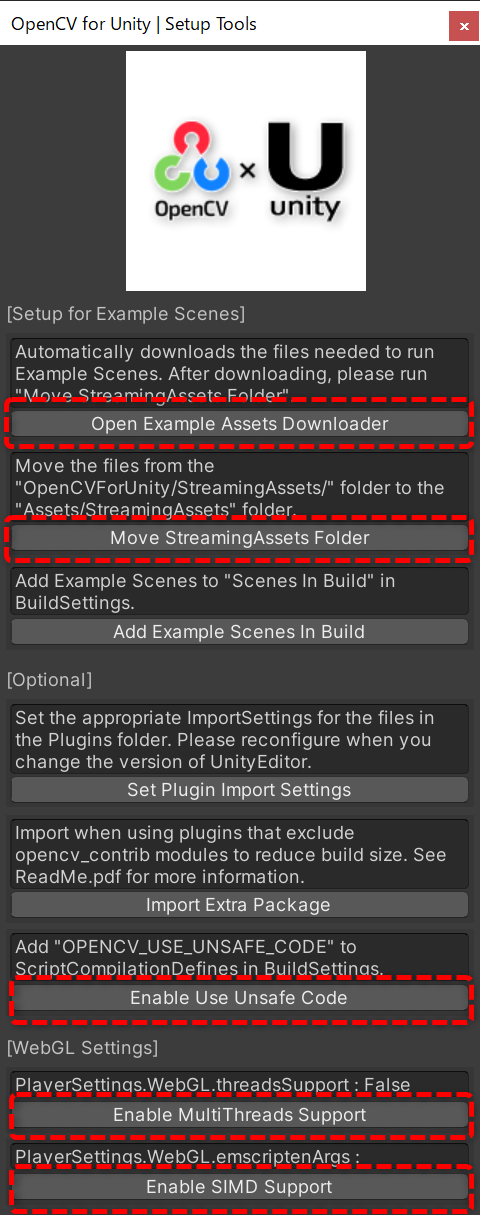
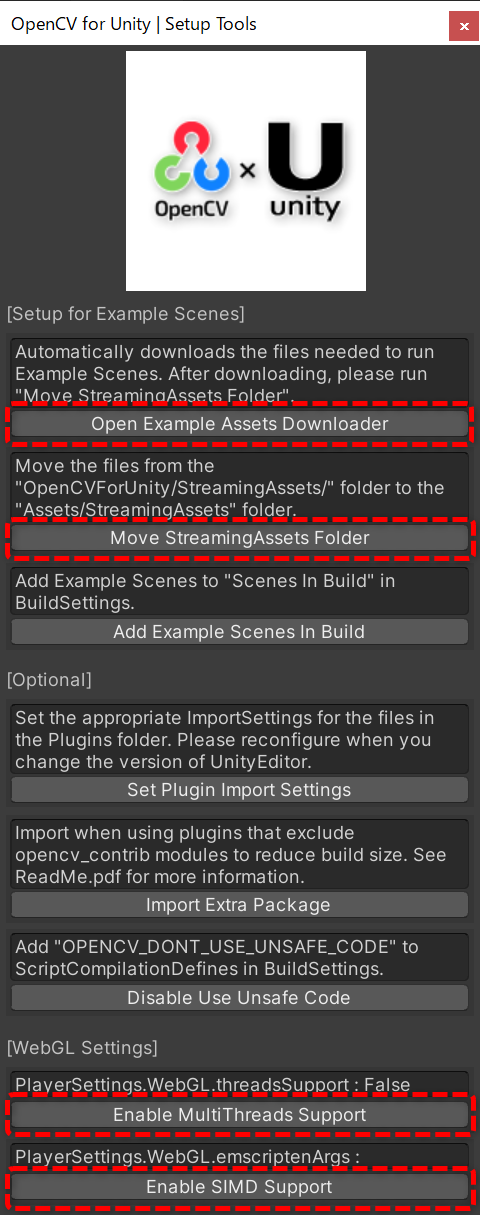
update 1.0.4

diff --git a/Assets/VideoPlayerWithOpenCVForUnityExample/HandPoseEstimationMediaPipeExample/HandPoseEstimationMediaPipeExample.cs b/Assets/VideoPlayerWithOpenCVForUnityExample/HandPoseEstimationMediaPipeExample/HandPoseEstimationMediaPipeExample.cs
@@ -252,7 +252,9 @@ namespace VideoPlayerWithOpenCVForUnityExample
                                 hands.Add(handpose);
                         }
                         //palmDetector.visualize(img, palms, true, false);
-                        handPoseEstimator.visualize(img, hands, true, false);
+
+                        foreach (var hand in hands)
+                            handPoseEstimator.visualize(img, hand, true, false);
                     }
 
                     gameObject.transform.localScale = new Vector3(img.width(), img.height(), 1);
@@ -418,7 +420,9 @@ namespace VideoPlayerWithOpenCVForUnityExample
                     Imgproc.cvtColor(bgrMat, rgbaMat, Imgproc.COLOR_BGR2RGBA);
 
                     //palmDetector.visualize(rgbaMat, palms, false, true);
-                    handPoseEstimator.visualize(rgbaMat, hands, false, true);
+
+                    foreach (var hand in hands)
+                        handPoseEstimator.visualize(rgbaMat, hand, false, true);
                 }
 
                 Utils.matToTexture2D(rgbaMat, texture);

diff --git a/Assets/VideoPlayerWithOpenCVForUnityExample/ShowSystemInfo.cs b/Assets/VideoPlayerWithOpenCVForUnityExample/ShowSystemInfo.cs
@@ -1,4 +1,4 @@
-using OpenCVForUnity.CoreModule;
+using OpenCVForUnity.CoreModule;
 using OpenCVForUnity.UnityUtils;
 using System;
 using System.Collections.Generic;
@@ -81,8 +81,6 @@ namespace VideoPlayerWithOpenCVForUnityExample
             dict.Add("Build target", "WSA");
 #elif UNITY_WEBGL
             dict.Add("Build target", "WebGL");
-#elif PLATFORM_LUMIN
-            dict.Add("Build target", "LUMIN");
 #else
             dict.Add("Build target", "");
 #endif
@@ -97,7 +95,7 @@ namespace VideoPlayerWithOpenCVForUnityExample
             dict.Add("Scripting backend", "");
 #endif
 
-#if OPENCV_USE_UNSAFE_CODE
+#if !OPENCV_DONT_USE_UNSAFE_CODE
             dict.Add("Allow 'unsafe' Code", "Enabled");
 #else
             dict.Add("Allow 'unsafe' Code", "Disabled");

diff --git a/Assets/VideoPlayerWithOpenCVForUnityExample/Scripts/ComicFilter.cs b/Assets/VideoPlayerWithOpenCVForUnityExample/Scripts/ComicFilter.cs
@@ -1,6 +1,6 @@
-using OpenCVForUnity.CoreModule;
+using OpenCVForUnity.CoreModule;
 using OpenCVForUnity.ImgprocModule;
-using OpenCVForUnity.UtilsModule;
+using OpenCVForUnity.UnityUtils;
 using System;
 
 namespace VideoPlayerWithOpenCVForUnityExample

diff --git a/README.md b/README.md
@@ -17,8 +17,8 @@ This example shows how to convert VideoPlayer texture to OpenCV Mat using AsyncG
 
 Environment
 -----
-- Unity 2019.4.31f1+
-- [OpenCV for Unity](https://assetstore.unity.com/packages/tools/integration/opencv-for-unity-21088?aid=1011l4ehR) 2.5.7+
+- Unity 2020.3.48f1+
+- [OpenCV for Unity](https://assetstore.unity.com/packages/tools/integration/opencv-for-unity-21088?aid=1011l4ehR) 2.5.9+
 
 
 Demo
